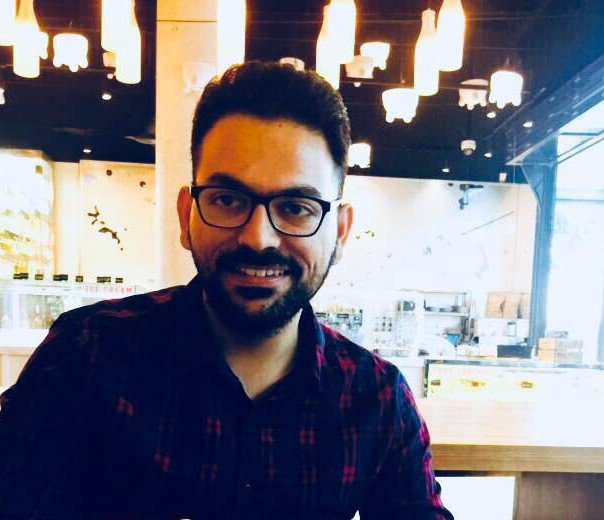
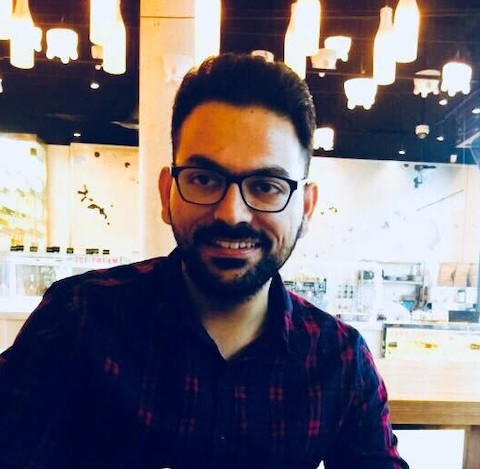
Fix Photo

diff --git a/index.html b/index.html
@@ -135,7 +135,7 @@
             So, in the loving memory of my friend Harpreet, I decided to start free yoga sessions for the cancer patients for their whole life to help them to survive and fight this battle. The sessions would be held via <strong>'ZOOM'</strong> video calls. For me all the patients will not only be my student, but I promise to treat them like my family and will try my best to make them fit and happy.</p>
            
           </div>
-          <div class="image col-lg-6 order-1 order-lg-2" style='background-image: url("assets/img/services.jpeg");background-position: center;background-repeat: no-repeat;' data-aos="fade-left" data-aos-delay="100"></div>
+          <div class="image col-lg-6 order-1 order-lg-2"> <img src= "assets/img/services.jpeg"/></div>
         </div> 
       </div>
     </section>
